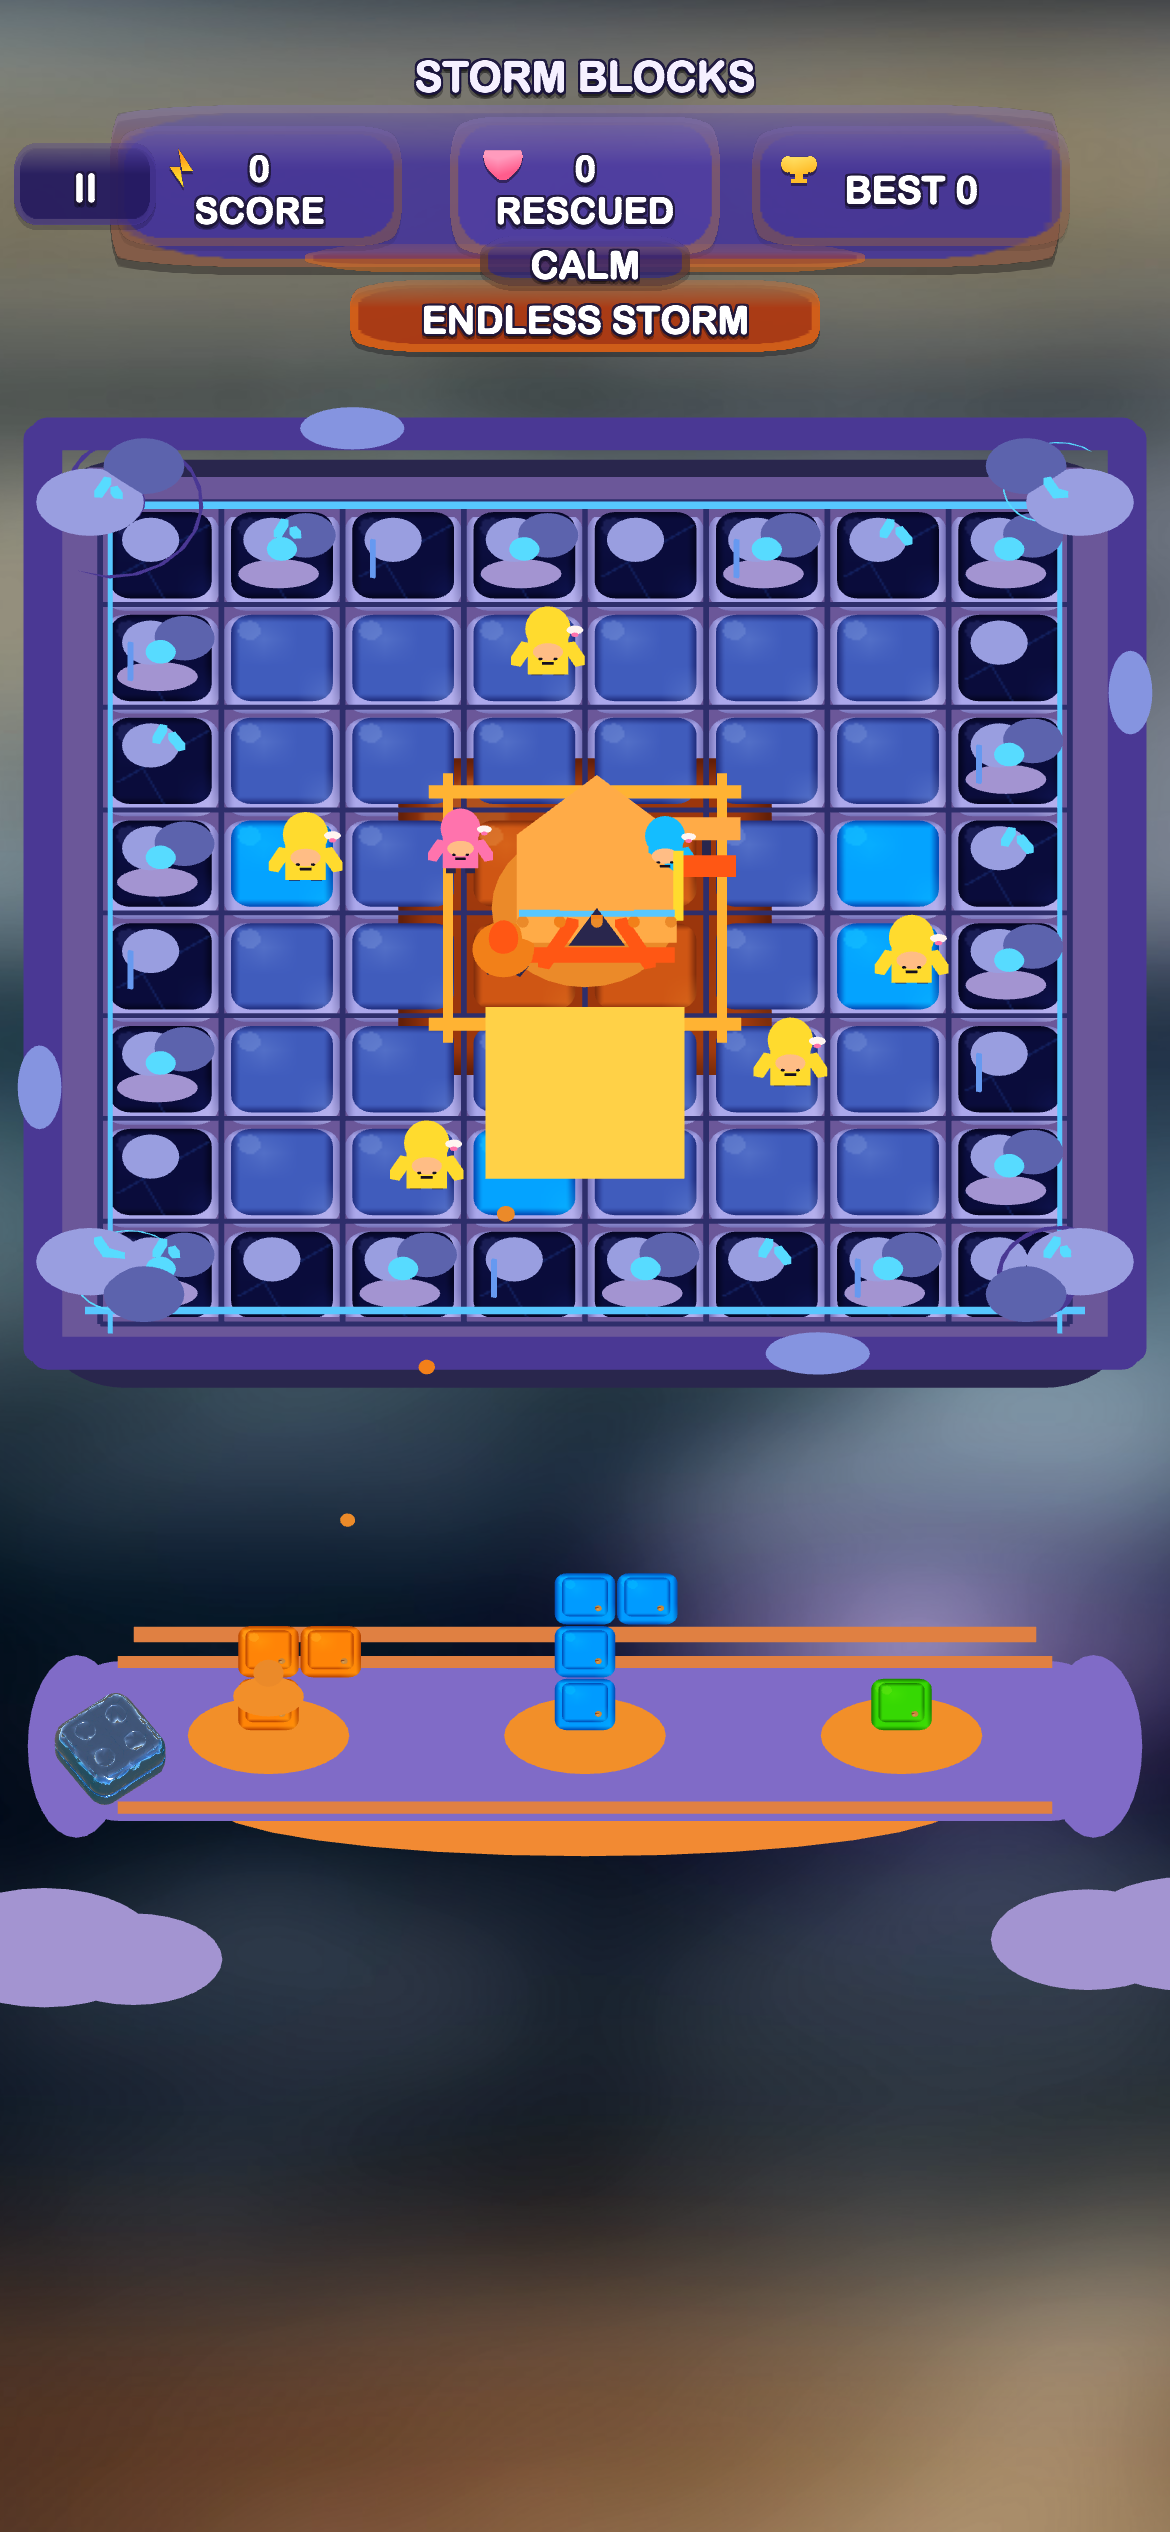
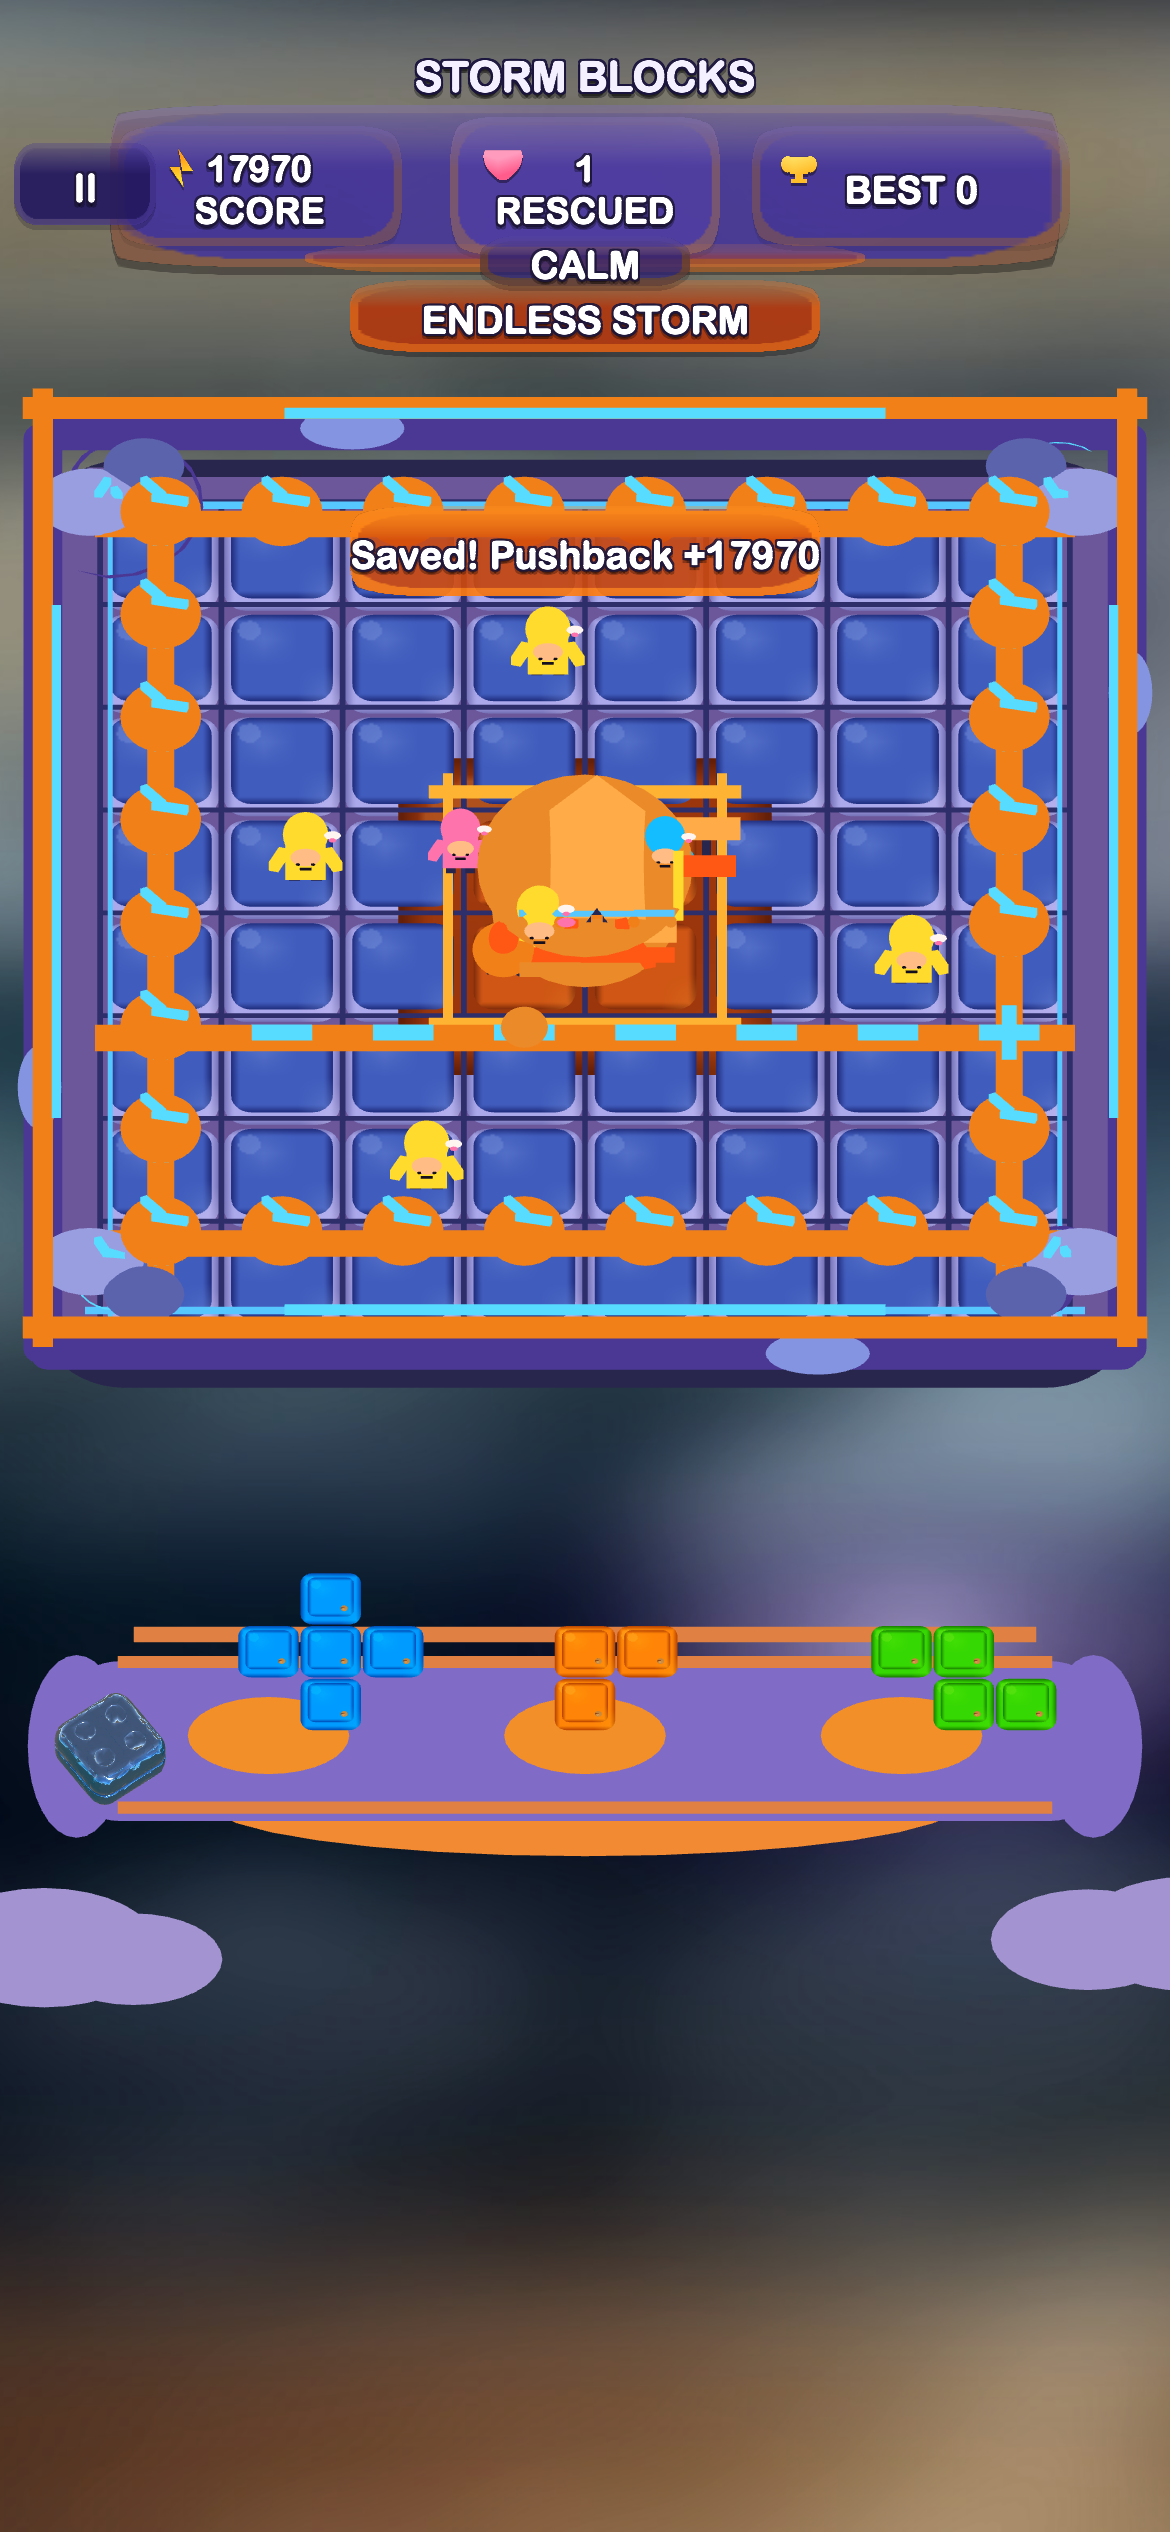
presentation: add saved survivor pushback moment

diff --git a/StormBlocksUnity/Assets/StormBlocks/Scripts/Presentation/StormBlocksGameView.cs b/StormBlocksUnity/Assets/StormBlocks/Scripts/Presentation/StormBlocksGameView.cs
@@ -2262,12 +2262,17 @@ namespace StormBlocks.Presentation
                 return result;
             }
 
-            ShowScoreFeedback(result);
-
             if (result.Clear.AutomaticPushbackTriggered)
             {
                 SpawnPushbackFx(result.Clear);
             }
+
+            if (result.Clear.SurvivorsRescuedAt.Count > 0)
+            {
+                SpawnRescueCelebrationFx(result.Clear, !result.Clear.AutomaticPushbackTriggered);
+            }
+
+            ShowScoreFeedback(result);
 
             _saveService.SaveRunSnapshot(StormRunSnapshot.FromState(_session.State));
             if (result.GameOver)
@@ -2289,13 +2294,18 @@ namespace StormBlocks.Presentation
                 return;
             }
 
+            bool rescued = result.Clear.SurvivorsRescuedAt.Count > 0;
             if (result.Clear.ClutchSave)
             {
-                ShowToast("Clutch Save +" + points, 1.1f);
+                ShowToast(rescued ? "Saved! Clutch +" + points : "Clutch Save +" + points, 1.1f);
             }
             else if (result.Clear.AutomaticPushbackTriggered)
             {
-                ShowToast("Pushback +" + points, 1.0f);
+                ShowToast(rescued ? "Saved! Pushback +" + points : "Pushback +" + points, 1.0f);
+            }
+            else if (rescued)
+            {
+                ShowToast("Saved! +" + points, 1.0f);
             }
             else if (result.Clear.Lines.Count > 1)
             {
@@ -2384,6 +2394,28 @@ namespace StormBlocks.Presentation
 
             CreatePushbackPerimeterSurge(lowDetail);
             _fxTimer = reducedMotion ? 0.35f : 0.8f;
+        }
+
+        private void SpawnRescueCelebrationFx(ClearResolution clear, bool clearExistingFx)
+        {
+            if (clearExistingFx)
+            {
+                ClearPooledTransform(_fxRoot);
+            }
+
+            int rescueCount = clear.SurvivorsRescuedAt.Count;
+            for (int i = 0; i < rescueCount; i++)
+            {
+                Vector3 start = CellCenter(clear.SurvivorsRescuedAt[i].X, clear.SurvivorsRescuedAt[i].Y);
+                Vector3 cheer = Vector3.Lerp(start, Vector3.zero, 0.58f) + new Vector3((i - 1) * 0.12f, 0.54f, 0.10f + i * 0.05f);
+                BuildSurvivor(_fxRoot, cheer, i % 2 == 0 ? _survivorYellow : _survivorPink);
+                CreatePooledCube("Saved survivor cheer path", _fxRoot, Vector3.Lerp(start, Vector3.zero, 0.42f) + Vector3.up * 0.50f, new Vector3(0.36f, 0.035f, 0.08f), _campLight);
+                CreatePooledSphere("Saved rescue burst", _fxRoot, start + Vector3.up * 0.58f, new Vector3(0.28f, 0.11f, 0.28f), _campLight);
+                CreatePooledSphere("Saved heart sparkle", _fxRoot, cheer + new Vector3(0.16f, 0.34f, -0.18f), new Vector3(0.11f, 0.08f, 0.045f), _survivorPink);
+            }
+
+            CreatePooledSphere("Saved camp glow", _fxRoot, new Vector3(0f, 0.66f, 0f), new Vector3(1.28f, 0.12f, 1.28f), _campLight);
+            _fxTimer = Mathf.Max(_fxTimer, _profile != null && _profile.Settings.ReducedMotion ? 0.40f : 0.95f);
         }
 
         private void CreatePushbackPerimeterSurge(bool lowDetail)

diff --git a/StormBlocksUnity/Assets/StormBlocks/Editor/StormBlocksVisualCapture.cs b/StormBlocksUnity/Assets/StormBlocks/Editor/StormBlocksVisualCapture.cs
@@ -1,5 +1,6 @@
 using System;
 using System.IO;
+using StormBlocks.Core;
 using StormBlocks.Presentation;
 using UnityEditor;
 using UnityEditor.SceneManagement;
@@ -20,6 +21,7 @@ namespace StormBlocks.Editor
             var root = new GameObject("Storm Blocks Visual Capture Root");
             var view = root.AddComponent<StormBlocksGameView>();
             view.StartEndlessForTest(20260505UL);
+            ConfigureSavedPushbackMoment(view);
 
             var camera = Camera.main;
             if (camera == null)
@@ -34,7 +36,7 @@ namespace StormBlocks.Editor
         public static void CaptureAppStoreScreenshots()
         {
             StormBlocksMarketingAssets.GenerateLaunchAssets();
-            CaptureScenario("01_place_blocks_save_camp.png", delegate(StormBlocksGameView view) { }, true);
+            CaptureScenario("01_place_blocks_save_camp.png", ConfigureSavedPushbackMoment, true);
             CaptureScenario("02_beat_daily_storm.png", delegate(StormBlocksGameView view) { view.StartDaily(true); }, true);
             CaptureScenario("03_storm_trail_progression.png", delegate(StormBlocksGameView view)
             {
@@ -69,6 +71,31 @@ namespace StormBlocks.Editor
             }
 
             CaptureCamera(camera, Path.Combine(AppStoreOutputFolder, fileName), includeCanvas);
+        }
+
+        private static void ConfigureSavedPushbackMoment(StormBlocksGameView view)
+        {
+            const int row = 2;
+            view.State.Queue.Clear();
+            view.State.Queue.Add(new PieceDefinition("single", new[] { new GridPosition(0, 0) }));
+            for (int x = 0; x < view.State.Board.Size; x++)
+            {
+                view.State.Board.ClearCell(new GridPosition(x, row));
+            }
+
+            view.State.Board.SetOccupant(new GridPosition(0, row), CellOccupant.Storm, string.Empty);
+            for (int x = 1; x < 7; x++)
+            {
+                view.State.Board.SetOccupant(new GridPosition(x, row), CellOccupant.Block, "capture");
+            }
+
+            view.State.Board.SetSurvivor(new GridPosition(3, row), true);
+
+            var result = view.TryPlaceForTest(0, new GridPosition(7, row));
+            if (!result.Success || !result.Clear.AutomaticPushbackTriggered || result.Clear.SurvivorsRescuedAt.Count == 0)
+            {
+                throw new InvalidOperationException("Storm Blocks capture could not stage the saved pushback moment.");
+            }
         }
 
         private static void CaptureCamera(Camera camera, string outputPath, bool includeCanvas)

diff --git a/StormBlocksUnity/Assets/StormBlocks/Tests/PlayMode/BootstrapSceneSmokeTests.cs b/StormBlocksUnity/Assets/StormBlocks/Tests/PlayMode/BootstrapSceneSmokeTests.cs
@@ -206,17 +206,23 @@ namespace StormBlocks.Tests.PlayMode
                 view.State.Board.SetOccupant(new GridPosition(x, 0), CellOccupant.Block, "setup");
             }
 
+            view.State.Board.SetSurvivor(new GridPosition(1, 0), true);
+
             var result = view.TryPlaceForTest(0, new GridPosition(7, 0));
             yield return null;
 
             Assert.IsTrue(result.Success, result.FailureReason);
             Assert.IsTrue(result.Clear.AutomaticPushbackTriggered, "Expected automatic pushback when clearing a row through a storm tile.");
+            Assert.AreEqual(1, result.Clear.SurvivorsRescuedAt.Count);
+            AssertTextContains("Saved!");
             Assert.IsNotNull(GameObject.Find("Gold pushback wave row"));
             Assert.IsNotNull(GameObject.Find("Storm shatter flare"));
             Assert.IsNotNull(GameObject.Find("Pushback storm wall recoil north"));
             Assert.IsNotNull(GameObject.Find("Pushback storm wall recoil south"));
             Assert.IsNotNull(GameObject.Find("Pushback storm wall recoil west"));
             Assert.IsNotNull(GameObject.Find("Pushback storm wall recoil east"));
+            Assert.IsNotNull(GameObject.Find("Saved rescue burst"));
+            Assert.IsNotNull(GameObject.Find("Saved camp glow"));
         }
 
         [UnityTest]

diff --git a/Docs/IMPLEMENTATION_LOG.md b/Docs/IMPLEMENTATION_LOG.md
@@ -827,3 +827,26 @@ Known risks / not done:
 
 - Current-source physical install/launch still needs to be retried after the paired iPhone is available to CoreDevice again.
 - App Store Connect upload still requires an app record for bundle id `com.perlantir.stormblocks`; the upload probe is expected to stay blocked until that external record exists.
+
+## 2026-05-05 — Saved survivor pushback presentation pass
+
+- Added a saved-survivor presentation layer in the runtime placement path: clears that rescue survivors now spawn a compact camp glow, rescued survivor cheer figures, path sparkles, rescue burst, and heart sparkle while preserving the automatic Storm Pushback VFX.
+- Updated score feedback so survivor-rescue clears show `Saved!` messaging, including `Saved! Pushback` when the rescue and automatic Storm Pushback happen together.
+- Extended the signature PlayMode smoke test to verify the saved toast, rescued survivor count, rescue burst, camp glow, storm shatter flare, and four pushback perimeter recoil objects in one actual placement.
+- Updated the visual capture and App Store screenshot generator so the main gameplay capture and screenshot `01_place_blocks_save_camp.png` stage the real saved-pushback moment through the runtime placement API.
+- Regenerated the portrait visual capture and all five App Store screenshots, then copied the refreshed PNGs into `fastlane/screenshots/en-US`.
+
+Evidence:
+
+- EditMode tests: `StormBlocksUnity/editmode-results.xml` reports 26 total, 26 passed, 0 failed at `2026-05-05 17:29:32Z`.
+- PlayMode tests: `StormBlocksUnity/playmode-results.xml` reports 9 total, 9 passed, 0 failed at `2026-05-05 17:29:39Z`.
+- Current logged full-detail mobile baseline after the saved survivor pushback pass: 457 renderers, 166,264 mesh triangles, 1 audio listener, and 1 canvas.
+- Portrait visual capture: `/tmp/stormblocks-visual-saved-pushback.log` completed successfully and wrote `StormBlocksUnity/Builds/VisualChecks/stormblocks-gameplay.png`.
+- App Store screenshot capture: `/tmp/stormblocks-appstore-saved-pushback.log` completed successfully and regenerated all five PNGs under `StormBlocksUnity/Builds/AppStoreScreens/`; the files were copied into `fastlane/screenshots/en-US/`.
+- `Scripts/verify_release_assets.sh` passes locally: 32 pass, 0 fail.
+- `Scripts/ci_static_checks.sh && Scripts/release_audit.sh full` passes static checks and reports 31 pass, 0 fail, 8 open gates.
+
+Known risks / not done:
+
+- Current-source physical install/launch still needs to be retried after the paired iPhone is available to CoreDevice again.
+- App Store Connect upload still requires an app record for bundle id `com.perlantir.stormblocks`; the upload probe is expected to stay blocked until that external record exists.

diff --git a/Docs/BUILD_AND_TEST.md b/Docs/BUILD_AND_TEST.md
@@ -27,7 +27,7 @@ Use the project test runner for batch verification. Unity 6000 can skip `-runTes
   -logFile /tmp/stormblocks-editmode-lowdetail.log
 ```
 
-Current evidence: `StormBlocksUnity/editmode-results.xml` reports 26 total, 26 passed, 0 failed at `2026-05-05 17:22:16Z`.
+Current evidence: `StormBlocksUnity/editmode-results.xml` reports 26 total, 26 passed, 0 failed at `2026-05-05 17:29:32Z`.
 
 ## PlayMode Tests
 
@@ -40,14 +40,14 @@ Current evidence: `StormBlocksUnity/editmode-results.xml` reports 26 total, 26 p
   -logFile /tmp/stormblocks-playmode-lowdetail.log
 ```
 
-Current evidence: `StormBlocksUnity/playmode-results.xml` reports 9 total, 9 passed, 0 failed at `2026-05-05 17:22:23Z`.
+Current evidence: `StormBlocksUnity/playmode-results.xml` reports 9 total, 9 passed, 0 failed at `2026-05-05 17:29:39Z`.
 
 The PlayMode suite includes release smoke guards for the normal flow and active touch controls:
 
 - `NormalFlowDoesNotEmitGameErrors` verifies the generated playable scene completes a normal interaction path without project-level console errors.
 - `ActiveTouchControlsStayInsideSafeAreaWithReleaseSizedTargets` verifies active portrait controls stay inside the safe-area root and meet release-sized touch target thresholds.
 - `FirstMoveCoachTeachesWithNoTextAndDismissesAfterPlacement` verifies the first-run coach is visual-only and disappears after the first placement.
-- `AutomaticPushbackSpawnsSignaturePerimeterRecoil` verifies a real row clear through a storm tile triggers automatic Storm Pushback plus the gold wave, storm shatter flare, and perimeter recoil VFX objects.
+- `AutomaticPushbackSpawnsSignaturePerimeterRecoil` verifies a real row clear through a storm tile triggers automatic Storm Pushback plus the saved-survivor toast, rescue burst, gold wave, storm shatter flare, and perimeter recoil VFX objects.
 
 The PlayMode suite includes a lightweight mobile scene-budget guard. Current logged baseline:
 
@@ -75,7 +75,7 @@ Current optimization notes:
 
 Output is written to ignored path `StormBlocksUnity/Builds/VisualChecks/stormblocks-gameplay.png`.
 
-Current evidence: `/tmp/stormblocks-visual-board-sanctuary-trim.log` completed with no C# errors or Unity exceptions. The capture includes the runtime HUD, text-free first-move coach, deeper grid seams, warm camp sanctuary ring, and perimeter storm wall, and uses the same visible text path as the generated store screenshots.
+Current evidence: `/tmp/stormblocks-visual-saved-pushback.log` completed successfully. The capture stages the actual runtime saved-pushback moment through `TryPlaceForTest`, including the runtime HUD, deeper grid seams, warm camp sanctuary ring, perimeter storm wall, saved toast, rescue burst, and automatic Storm Pushback VFX.
 
 ## App Icon Draft
 
@@ -111,7 +111,7 @@ Outputs are written to ignored path `StormBlocksUnity/Builds/AppStoreScreens/`:
 - `04_tempest_trials_weekly.png`
 - `05_cosmetic_profile.png`
 
-Current evidence: `/tmp/stormblocks-appstore-board-sanctuary-trim.log` completed with no C# errors or Unity exceptions, and regenerated all five 1170 x 2532 PNGs with visible UI labels and the updated board treatment.
+Current evidence: `/tmp/stormblocks-appstore-saved-pushback.log` completed successfully and regenerated all five 1170 x 2532 PNGs. Screenshot `01_place_blocks_save_camp.png` is now staged from the actual saved-pushback gameplay moment; the refreshed Fastlane screenshot package passes `Scripts/verify_release_assets.sh` with 32 pass, 0 fail.
 
 The current Fastlane handoff package includes tracked copies under `fastlane/screenshots/en-US/`. `Scripts/verify_release_assets.sh` validates the five expected PNGs at 1170 x 2532.
 

diff --git a/Docs/QA_EVAL_REPORT.md b/Docs/QA_EVAL_REPORT.md
@@ -4,9 +4,9 @@ Current eval date: 2026-05-05.
 
 ## Automated Coverage
 
-- EditMode: 26 total, 26 passed, 0 failed at `2026-05-05 17:22:16Z`.
-- PlayMode: 9 total, 9 passed, 0 failed at `2026-05-05 17:22:23Z`.
-- Covered core evals: placement, valid move detection, line clears, scoring, storm spread, automatic Storm Pushback, signature pushback VFX, clutch save, game-over states, daily seed determinism, save/load, progression, service seams, visual first-move coaching, normal-flow console cleanliness, portrait safe-area controls, results/retry, UI shell navigation, and mobile scene budgets.
+- EditMode: 26 total, 26 passed, 0 failed at `2026-05-05 17:29:32Z`.
+- PlayMode: 9 total, 9 passed, 0 failed at `2026-05-05 17:29:39Z`.
+- Covered core evals: placement, valid move detection, line clears, scoring, storm spread, automatic Storm Pushback, saved-survivor presentation, signature pushback VFX, clutch save, game-over states, daily seed determinism, save/load, progression, service seams, visual first-move coaching, normal-flow console cleanliness, portrait safe-area controls, results/retry, UI shell navigation, and mobile scene budgets.
 - Current full-detail PlayMode budget: 457 renderers, 166,264 mesh triangles, 1 audio listener, 1 canvas.
 - Local Gate 12 performance coverage now includes primitive pooling for dynamic board/tray/drag/VFX presentation and a persisted Low Detail setting with older-device auto fallback heuristics.
 

diff --git a/Docs/APP_STORE_SCREENSHOTS.md b/Docs/APP_STORE_SCREENSHOTS.md
@@ -24,7 +24,7 @@ The release handoff copies the current set into Fastlane's tracked screenshot pa
 
 Current files:
 
-- `01_place_blocks_save_camp.png` - core loop, warm camp, readable board.
+- `01_place_blocks_save_camp.png` - staged saved-pushback core loop, warm camp, readable board.
 - `02_beat_daily_storm.png` - Daily Storm retention mode.
 - `03_storm_trail_progression.png` - Storm Trail map/progression mode.
 - `04_tempest_trials_weekly.png` - weekly Tempest Trials run set.
@@ -36,6 +36,6 @@ Each generated image targets iPhone portrait composition at 1170 x 2532.
 
 - The screenshots use the procedural 3D art direction currently in the Unity project.
 - The scenes are draft store assets until final art/audio/signing review.
-- The current Fastlane set was regenerated after the design-source board pass on `2026-05-05`.
+- The current Fastlane set was regenerated after the saved-pushback visual pass on `2026-05-05`.
 - The output should be regenerated after any major visual, UI, mode, or monetization-surface change.
 - After regeneration, copy the five PNGs into `fastlane/screenshots/en-US/` and rerun `Scripts/verify_release_assets.sh`.

diff --git a/Docs/RELEASE_AUDIT.md b/Docs/RELEASE_AUDIT.md
@@ -10,7 +10,7 @@ This maps the launch request and repo release gates to concrete evidence. The pr
 | --- | --- | --- |
 | Unity/C# iPhone game, portrait-first | Unity project under `StormBlocksUnity`; iOS export uses portrait-only `Info.plist`; `Docs/BUILD_AND_TEST.md` has the latest export proof. | Pass |
 | Complete 8x8 drag-and-place block puzzle | Core logic and PlayMode interaction tests pass; `Docs/QA_EVAL_REPORT.md` lists placement, valid moves, clears, and touch-control coverage. | Pass |
-| Storm Pushback is automatic and signature | Core tests cover pushback and clutch save; presentation includes gold/cyan pushback VFX; PlayMode now forces a real storm-line clear and verifies the shatter flare plus perimeter recoil objects. | Pass |
+| Storm Pushback is automatic and signature | Core tests cover pushback and clutch save; presentation includes gold/cyan pushback VFX; PlayMode now forces a real storm-line clear and verifies saved-survivor presentation, the shatter flare, and perimeter recoil objects. | Pass |
 | Endless Storm | Release checklist marks complete; local high-score/best-run coverage exists in profile/progression tests. | Pass |
 | Daily Storm | Deterministic daily seed, local history, leaderboard-ready service, and share-card paths are covered by EditMode/PlayMode evidence. | Pass |
 | Storm Trail progression | 120+ deterministic level/challenge definitions and progression/reward tests are covered in the mode/progression implementation. | Pass |
@@ -24,7 +24,7 @@ This maps the launch request and repo release gates to concrete evidence. The pr
 | Audio/haptics | Service interfaces, Unity feedback service, and EditMode coverage for rescue/near-death hooks exist; release checklist marks hooks present. | Pass |
 | No forced ads, paid power, gacha, loot boxes, or paid speedups | Package/settings review in implementation log and privacy/app-store docs; Unity Ads/Purchasing disabled. | Pass |
 | Design references and visual target | Procedural 3D board, storm, camp, survivors, app icon, regenerated screenshots, optimized design-source GLB imports, blurred design-source storm backdrop, deep grid seam lattice, warm camp sanctuary ring, and living perimeter storm wall exist; visual quality still needs final physical-device human review. | Local pass; human review pending |
-| QA tests | Latest EditMode: 26/26 at `2026-05-05 17:22:16Z`; latest PlayMode: 9/9 at `2026-05-05 17:22:23Z`. | Pass |
+| QA tests | Latest EditMode: 26/26 at `2026-05-05 17:29:32Z`; latest PlayMode: 9/9 at `2026-05-05 17:29:39Z`. | Pass |
 | Prompt compliance verifier | `Scripts/verify_prompt_compliance.sh` checks required docs/design refs, major gameplay/system surfaces, passing test result files, and non-monetization/copyright guardrails. | Pass |
 | Performance optimization | Primitive pooling, Low Detail fallback, URP mobile settings, optimized design-source imports, scene-budget guard, and modern-iPhone Game Performance/Power traces exist; latest full-detail budget is 457 renderers and 166,264 triangles. | Partial physical pass; older-device profiling pending |
 | Physical QA handoff | `Docs/PHYSICAL_QA_RUNBOOK.md` and `Scripts/device_qa_session.sh` define launch, five-run QA, Game Center, TestFlight, and profiling steps. | Local pass; physical execution pending |

diff --git a/Docs/DESIGN_ASSET_REVIEW.md b/Docs/DESIGN_ASSET_REVIEW.md
@@ -40,7 +40,7 @@ The playable `StormBlocksGameView` now uses the design references in the runtime
 - The central camp keeps a warm tent/fire/survivor silhouette and no longer has the rejected raw camp GLB overlay.
 - The piece tray includes an optimized GLB toy-block charm while repeated gameplay cells remain procedural for performance.
 - The background uses a blurred design-source phone-layout crop to capture the supplied storm atmosphere without copying the source board/UI into the playable surface.
-- App Store screenshots and the portrait gameplay capture were regenerated after the board pass.
+- App Store screenshots and the portrait gameplay capture were regenerated after the board pass, then refreshed again so the first store screenshot and gameplay capture stage the real saved-pushback moment through the runtime placement API.
 
 ## Reproduction
 

diff --git a/Docs/PERFORMANCE_PROFILE.md b/Docs/PERFORMANCE_PROFILE.md
@@ -4,7 +4,7 @@ This is the current lightweight performance profile for the Unity playable scene
 
 ## Current Baseline
 
-Source: `StormBlocksUnity/playmode-results.xml` from `2026-05-05 17:22:23Z`.
+Source: `StormBlocksUnity/playmode-results.xml` from `2026-05-05 17:29:39Z`.
 
 - PlayMode tests: 9 total, 9 passed, 0 failed.
 - Playable root renderers: 457.